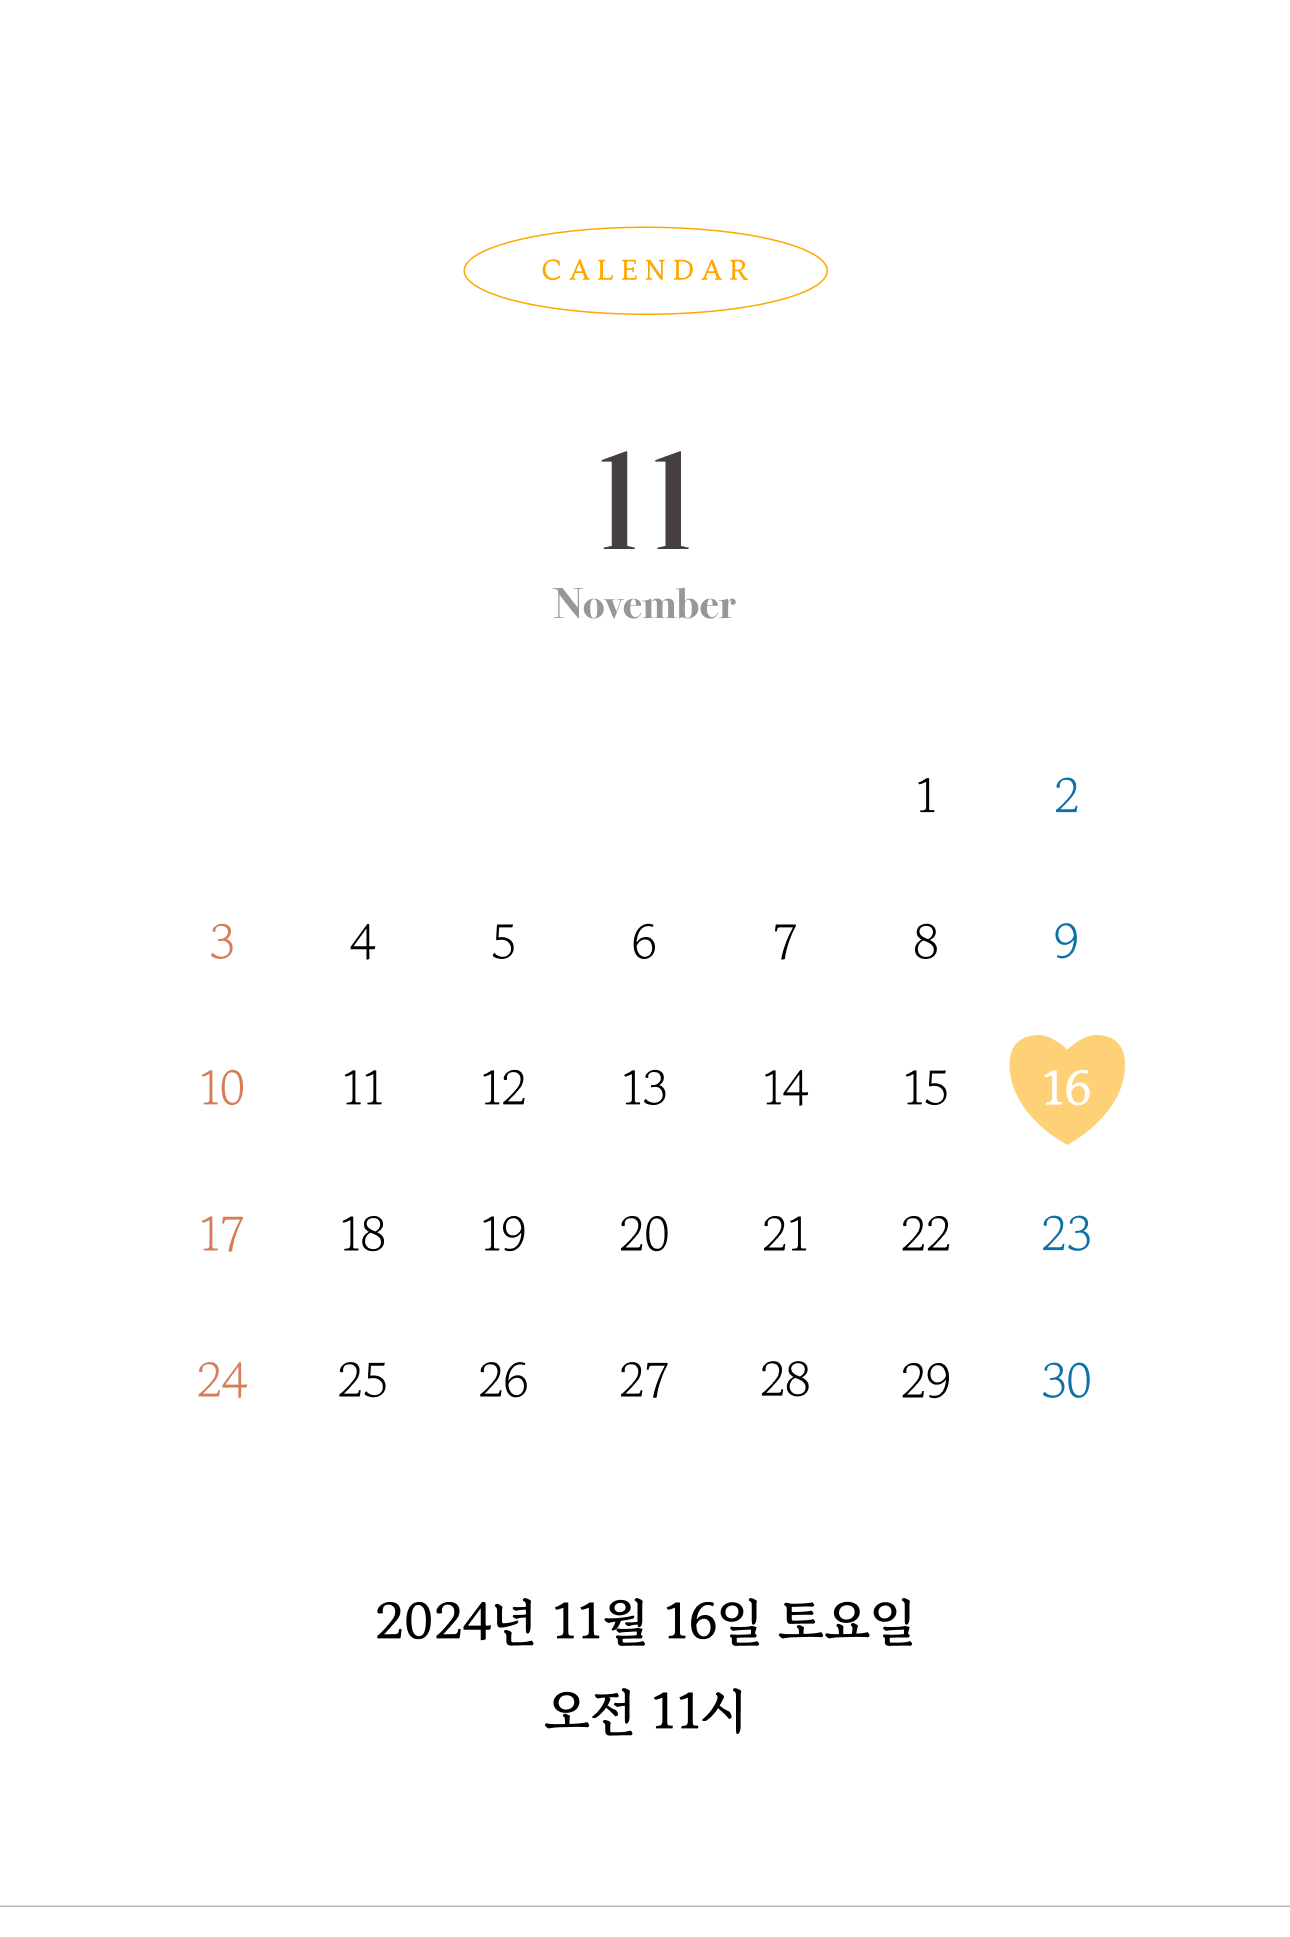
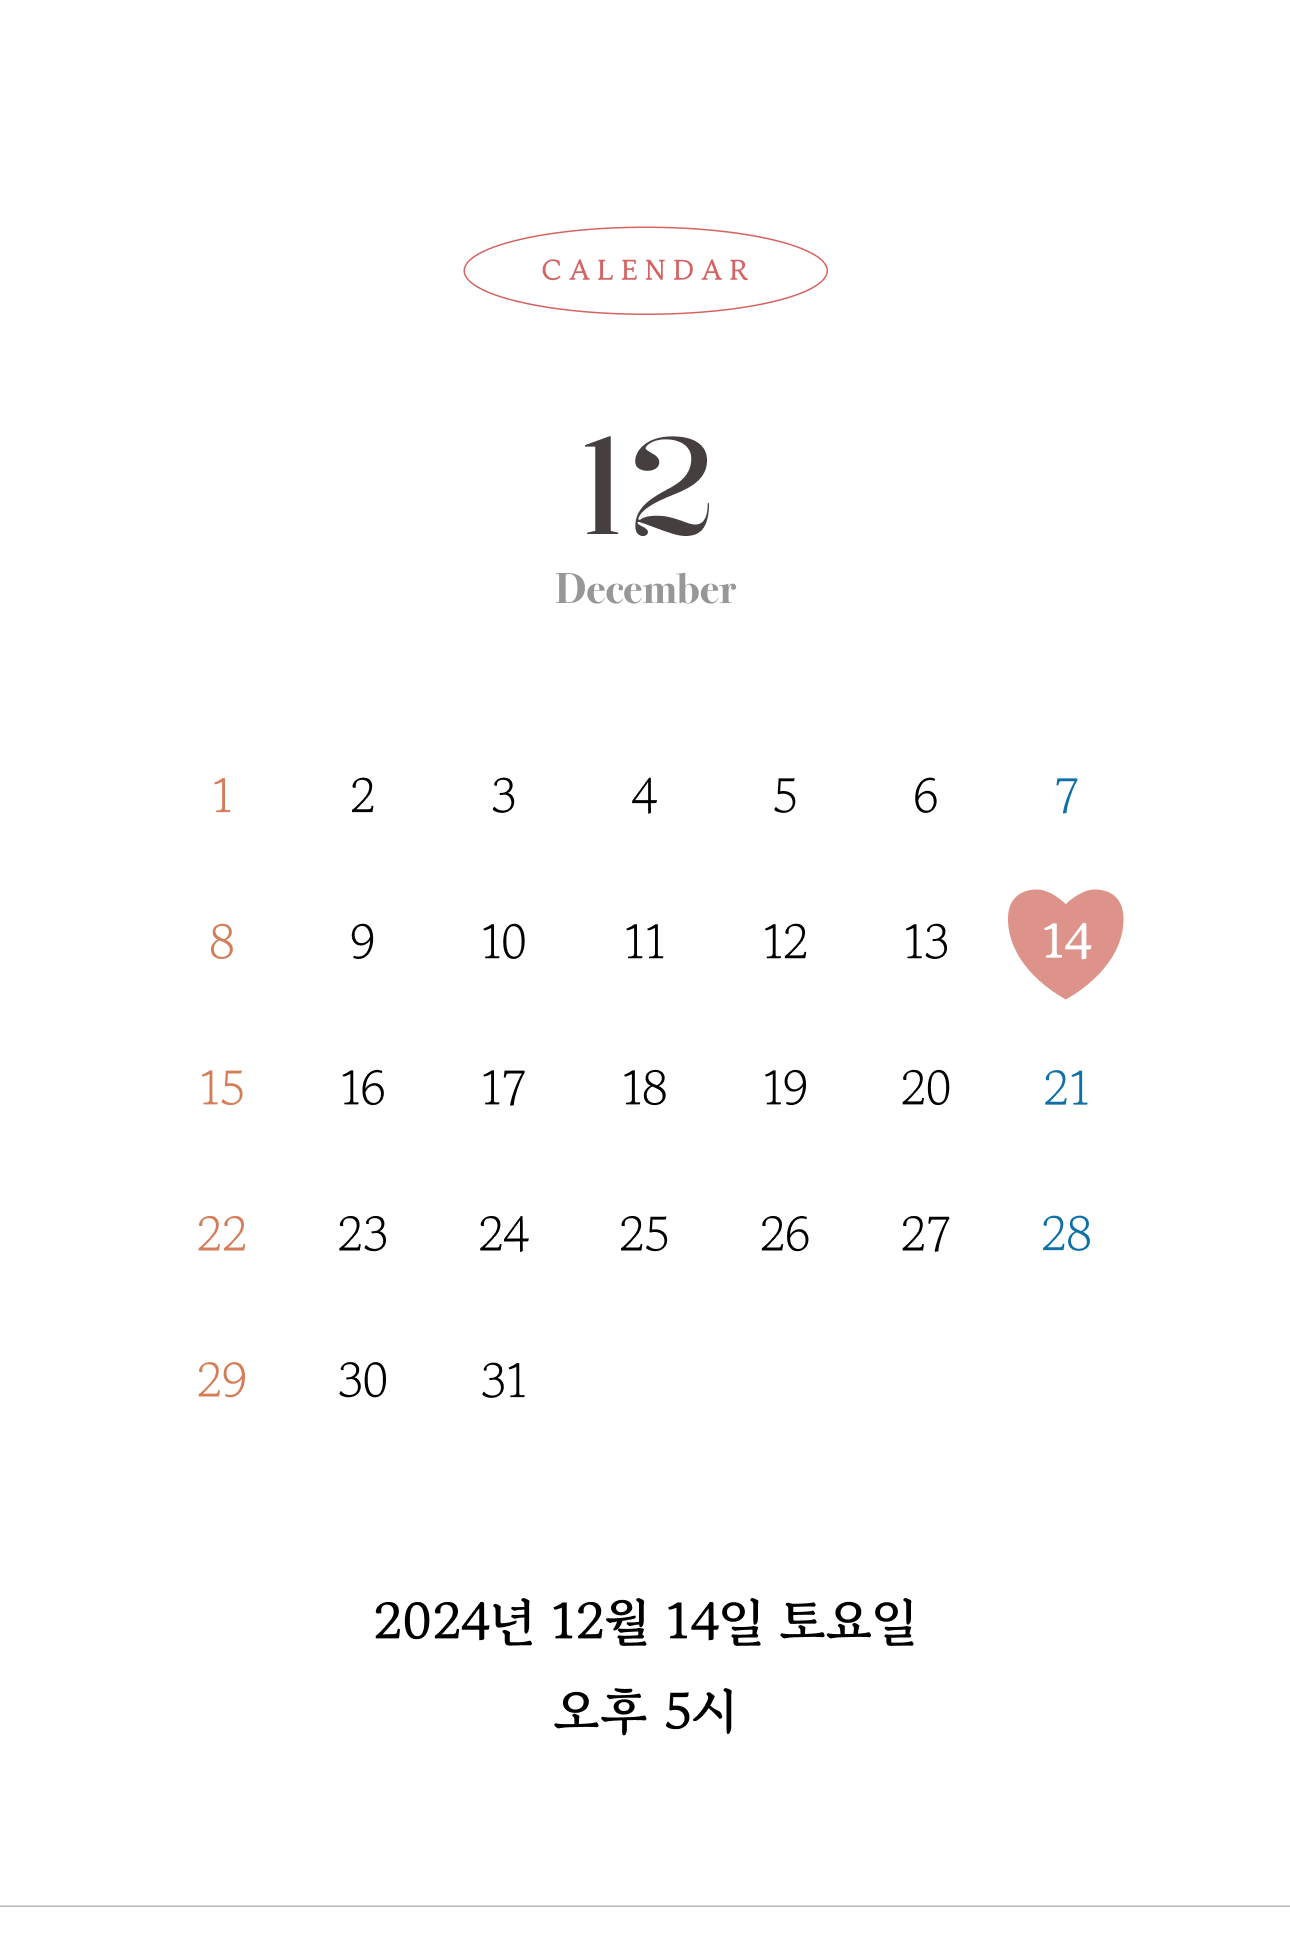
생성

diff --git a/index.html b/index.html
@@ -5,19 +5,19 @@
   <meta charset="utf-8" />
   <link rel="icon" href="/img/heart_icon.png" />
   <meta name="viewport" content="width=device-width" />
-  <title>김준영 ♥ 박민주의 결혼식에 초대합니다.</title>
+  <title>권태현 ♥ 김보아의 결혼식에 초대합니다.</title>
   <meta http-equiv="X-UA-Compatible" content="IE=edge, chrome=1" />
   <meta name="viewport"
     content="width=device-width,initial-scale=1.0,maximum-scale=1.0,minimum-scale=1.0,user-scalable=no,target-densitydpi=medium-dpi" />
   <meta name="robots" content="index,follow" />
   <meta name="googlebot" content="index,follow" />
   <meta name="description" content="결혼식에 초대합니다♡" />
-  <link rel="canonical" href="https://mo15.luvle.co.kr" />
-  <meta property="og:url" content="https://mo15.luvle.co.kr" />
-  <meta property="og:title" content="김준영 ♥ 박민주의 결혼식에 초대합니다." />
+  <link rel="canonical" href="https://mo20.luvle.co.kr" />
+  <meta property="og:url" content="https://mo20.luvle.co.kr" />
+  <meta property="og:title" content="권태현 ♥ 김보아의 결혼식에 초대합니다." />
   <meta property="og:description" content="결혼식에 초대합니다♡" />
   <meta property="og:image" content="https://i.imgur.com/tYuIfbQ.png" />
-  <meta property="og:site_name" content="김준영 ♥ 박민주의 결혼식에 초대합니다." />
+  <meta property="og:site_name" content="권태현 ♥ 김보아의 결혼식에 초대합니다." />
   <script src="https://cdn.tailwindcss.com"></script>
   <link rel="stylesheet" type="text/css" href="style.css" />
   <link href="https://webfontworld.github.io/yangheeryu/GowunBatang.css" rel="stylesheet" />
@@ -91,7 +91,7 @@
             <div id="weddingDesc">
               <div style="line-height: 40px;">
                 <p id="parentInfo">
-                  <span style="font-size: large">이인규 · 진기자</span>
+                  <span style="font-size: large">권종태 · 나순옥</span>
                   <span>
                     <span>의</span>
                     <span style="
@@ -100,7 +100,7 @@
                           display: inline-block;
                         ">차남</span>
                   </span>
-                  <span style="font-size: large">김준영</span>
+                  <span style="font-size: large">권태현</span>
                   <span style="
                         font-size: large;
                         display: inline-block;
@@ -115,22 +115,22 @@
                     document
                       .getElementById("man-call-button")
                       .addEventListener("click", function () {
-                        var phoneNumber = "010-2278-4295";
+                        var phoneNumber = "010-2030-2507";
                         window.location.href = "tel:" + phoneNumber;
                       });
                   </script>
                 </p>
                 <p id="parentInfo">
-                  <span style="font-size: large">박상현 · 유미자</span>
+                  <span style="font-size: large">김기철 · 이화순</span>
                   <span>
                     <span>의</span>
                     <span style="
                           font-size: large;
                           min-width: 3rem;
                           display: inline-block;
-                        ">딸</span>
+                        ">차녀</span>
                   </span>
-                  <span style="font-size: large">박민주</span>
+                  <span style="font-size: large">김보아</span>
                   <span style="
                         font-size: large;
                         display: inline-block;
@@ -145,7 +145,7 @@
                     document
                       .getElementById("woman-call-button")
                       .addEventListener("click", function () {
-                        var phoneNumber = "010-4425-5686";
+                        var phoneNumber = "010-2831-1108";
                         window.location.href = "tel:" + phoneNumber;
                       });
                   </script>
@@ -159,7 +159,7 @@
         <section id="gallerySection"> 
           <div id="galleryImages" class="gallery">
             <span style="
-            color: #FDA700;
+            color: #D46363;
             font-size: 10px;
             min-width: 3rem;
             display: inline-block;"><b>G A L L E R Y</b></span><br>
@@ -214,7 +214,7 @@
                 <th>SEC</th>
               </tr>
               <tr>
-                <td id="daysLeft" style="color: #FDA700; font-weight: 600">
+                <td id="daysLeft" style="color: #FFA3A3; font-weight: 600">
                   119
                 </td>
                 <td>:</td>
@@ -238,7 +238,7 @@
           <div class="animate-on-scroll">
 
             <span style="
-            color: #FDA700;
+            color: #D46363;
             font-size: 9px;
             min-width: 3rem;
             display: inline-block;"><b>L O C A T I O N</b></span>
@@ -257,21 +257,21 @@
                     text-align: center;
                     line-height: 1.5rem;
                   ">
-                <p>경기 수원시 영통구 봉영로 1612</p>
+                <p>전라남도 무안군 삼향읍 남악로 162번길 10</p>
                 <p style="font-weight: 600; color: #000000">
-                  sy컨벤션
+                  스카이웨딩컨벤션 노블리스홀
                 </p>
               </div>
               <div class="weddinghall-call-info">
                 <button id="weddingHallCallButton">
                   <img src="img/call.png" alt="전화" style="width: 10px; height: 10px" />
-                  <p id="weddingHallCallP">031 - 206 - 6660</p>
+                  <p id="weddingHallCallP">061 - 284 - 0010</p>
                 </button>
                 <script>
                   document
                     .getElementById("weddingHallCallButton")
                     .addEventListener("click", function () {
-                      var phoneNumber = "031-206-6660";
+                      var phoneNumber = "061-284-0010";
                       window.location.href = "tel:" + phoneNumber;
                     });
                 </script>
@@ -288,8 +288,8 @@
             var mapContainer = document.getElementById("map"), // 지도를 표시할 div
               mapOption = {
                 center: new kakao.maps.LatLng(
-                  37.254526983677714,
-                  127.07494298769757
+                  34.80333644521546,
+                  126.46700513165017
                 ), // 지도의 중심좌표
                 level: 3, // 지도의 확대 레벨
               };
@@ -309,8 +309,8 @@
 
             // 마커가 표시될 위치입니다
             var markerPosition = new kakao.maps.LatLng(
-              37.254526983677714,
-              127.07494298769757
+              34.80333644521546,
+              126.46700513165017
             );
 
             // 마커를 생성합니다
@@ -325,9 +325,9 @@
         </div>
 
         <!-- map 길찾기 -->
-        <div class="animate-on-scroll" id="MapIconDiv" style="background-color: #FFD177;">
+        <div class="animate-on-scroll" id="MapIconDiv" style="background-color: #E0BDBD;">
           <div>
-            <a class="maplink" href="https://kko.to/O2hWer9dhL">
+            <a class="maplink" href="https://kko.to/um0RYQx1Vn">
               <div>
                 <button id="kakaoMapButton" type="button">
                   <!-- <img
@@ -386,7 +386,7 @@
             </button>
             <div class="panel">
               <ul>
-                <li><strong>신랑 김준영 : </strong>농협은행 3561480501343</li>
+                <li><strong>신랑 권태현 : </strong>국민은행 688801-00-151882</li>
                 
               </ul>
             </div>
@@ -396,7 +396,7 @@
             </button>
             <div class="panel">
               <ul>
-                <li><strong>신부 박민주 : </strong>카카오뱅크 3333021251920</li>
+                <li><strong>신부 김보아 : </strong>신한은행 110-568-348661</li>
         
 
 
@@ -434,7 +434,7 @@
               <div class="button-container">
                 <button id="snsButton" type="button" class="shareKt">
                   <img src="img/kakaotalk.png" alt="카카오톡" style="width: 25px; height: 25px" />
-                  &nbsp;&nbsp;카카오톡
+                  &nbsp;카카오톡
                 </button>
                 <!-- <button id="snsButton" type="button" class="shareKs">
                   <img

diff --git a/style.css b/style.css
@@ -112,7 +112,7 @@ body {
 }
 
 #gallerySection {
-  background-color: #FEF8E2;
+  background-color: #F4EEEB;
   padding-top: 20%;
 }
 
@@ -120,7 +120,7 @@ body {
   display: grid;
   grid-template-columns: repeat(2, minmax(0, 1fr));
   grid-gap: 5px;
-  background-color: #FEF8E2;
+  background-color: #F4EEEB;
   /* (A2) OPTIONAL WIDTH RESTRICT */
   max-width: 1000px;
   margin: 0 auto;
@@ -219,7 +219,7 @@ body {
 }
 
 .countdownTimeInfo {
-  color: #FDA700;
+  color: #FFA3A3;
   font-weight: 600;
 }
 
@@ -261,7 +261,7 @@ body {
 
 #locationSection {
   margin-top: 3%;
-  background-color: #FEF8E2;
+  background-color: #F4EEEB;
   height: 265px;
 }
 
@@ -326,7 +326,7 @@ main {
 }
 
 .accordion {
-  background-color: #FFF3CA;
+  background-color: #F4EEEB;
   color: black;
   cursor: pointer;
   padding: 0.8rem;
@@ -418,7 +418,7 @@ main {
 }
 
 #kakaoMapButton {
-  background-color: #FFD177;
+  background-color: #E0BDBD;
   padding: 10px;
   text-align: center;
   width: auto;

diff --git a/gallery.js b/gallery.js
@@ -52,16 +52,16 @@ window.onload = () => {
         imageWidth: 1200,
         imageHeight: 630,
         link: {
-          mobileWebUrl: "https://15.luvle.co.kr",
-          webUrl: "https://mo15.luvle.co.kr",
+          mobileWebUrl: "https://mo20.luvle.co.kr",
+          webUrl: "https://mo20.luvle.co.kr",
         },
       },
       buttons: [
         {
           title: "자세히 보기",
           link: {
-            mobileWebUrl: "https://mo15.luvle.co.kr",
-            webUrl: "https://mo15.luvle.co.kr",
+            mobileWebUrl: "https://mo20.luvle.co.kr",
+            webUrl: "https://mo20.luvle.co.kr",
           },
         },
       ],

diff --git a/countdown.js b/countdown.js
@@ -1,7 +1,7 @@
 document.addEventListener("DOMContentLoaded", function () {
   function updateCountdown() {
     // 결혼 날짜 설정 (년, 월(0부터 시작), 일, 시, 분)
-    const weddingDate = new Date(2024, 10, 16, 11, 0); // 예시: 2024년 10월 12일
+    const weddingDate = new Date(2024, 11, 14, 16, 0); // 예시: 2024년 10월 12일
 
     const currentDate = new Date();
     const timeDifference = weddingDate - currentDate;
